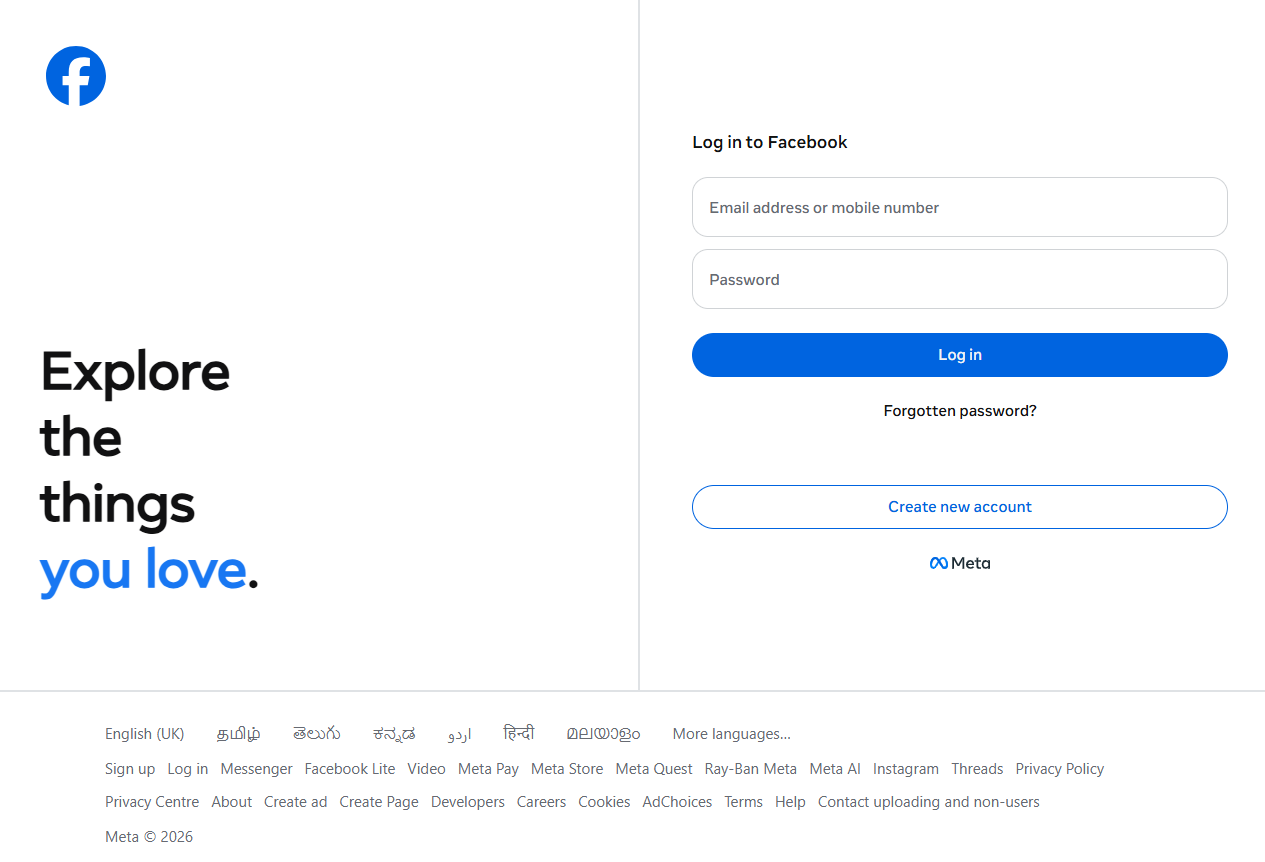
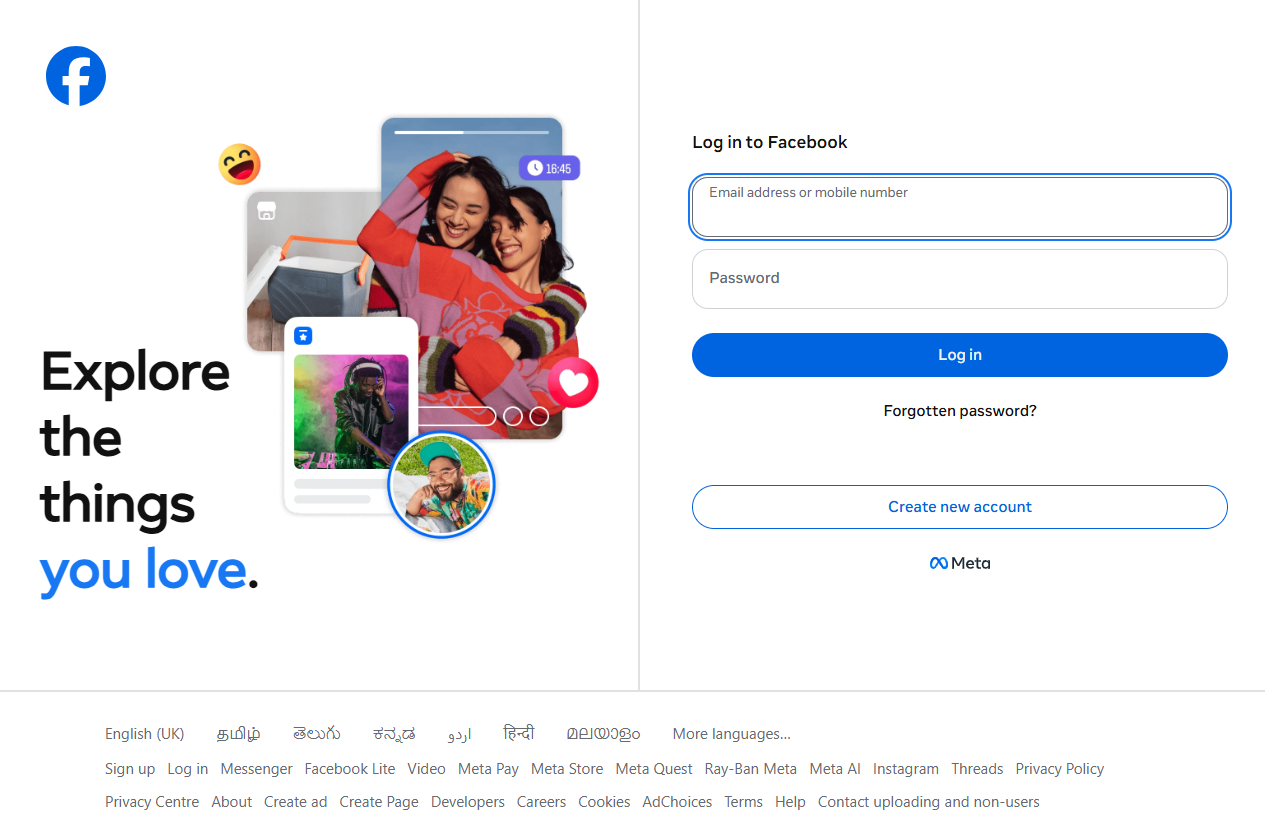
Finall commit

diff --git a/tests/playwright-webtable-demo.spec.ts b/tests/playwright-webtable-demo.spec.ts
@@ -43,7 +43,7 @@ test('Retrieval and Validation of the table Headers', async ({page}) => {
     })
 })
 
-test.only('Retrieve 2nd row 3rd column data', async ({page}) => {
+test('Retrieve 2nd row 3rd column data', async ({page}) => {
     await test.step('Navigate to the Web Tables page', async()=>{      
         await page.goto('https://www.tutorialspoint.com/selenium/practice/webtables.php');
         await expect(page).toHaveTitle('Selenium Practice - Web Tables');
